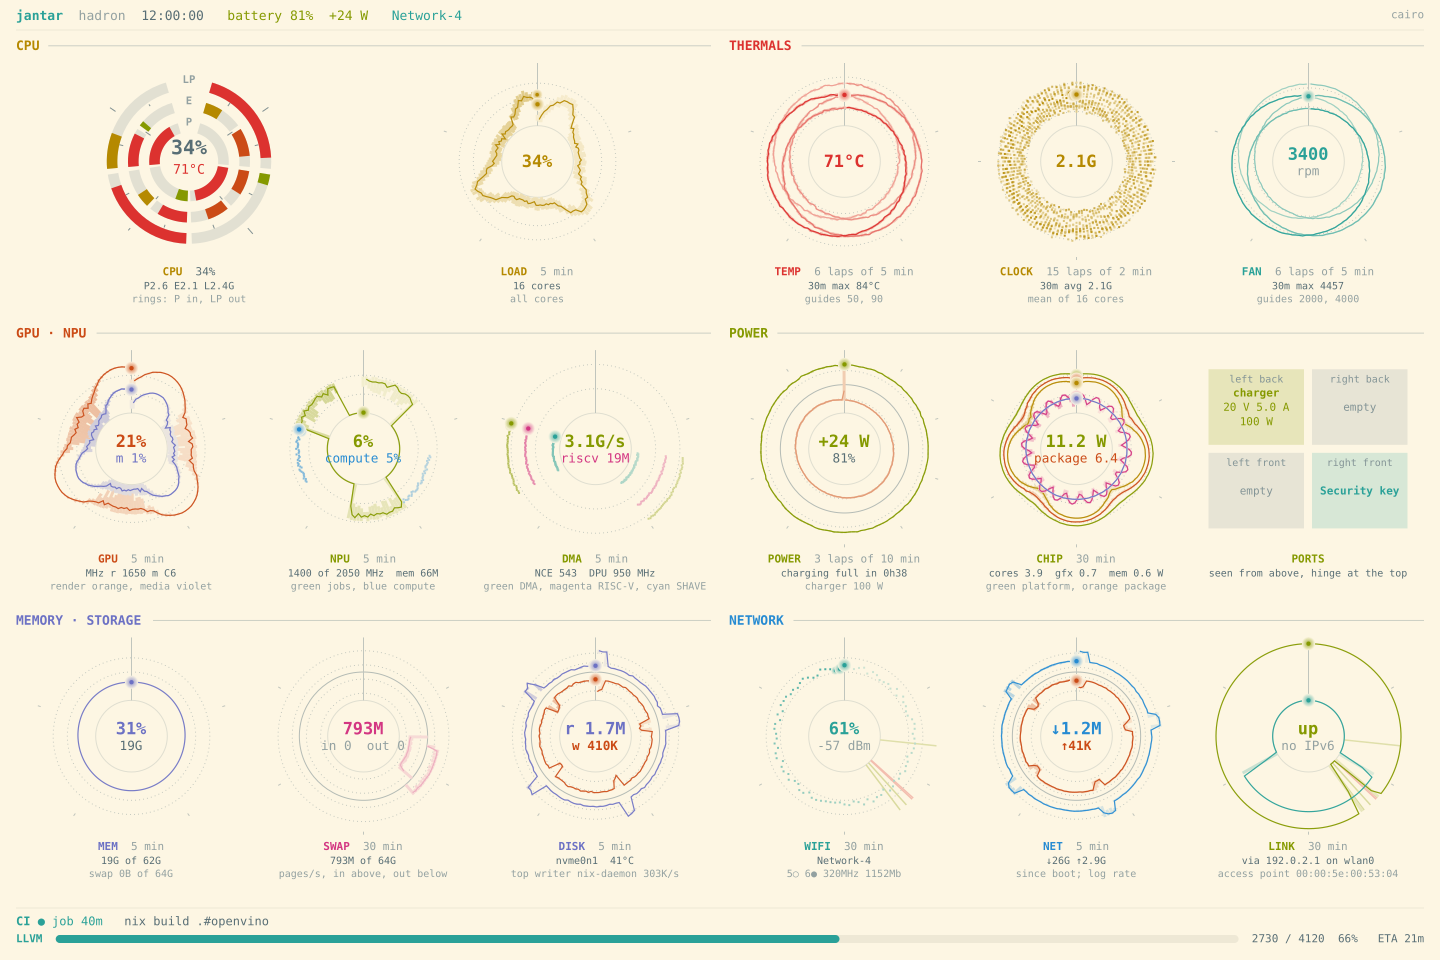
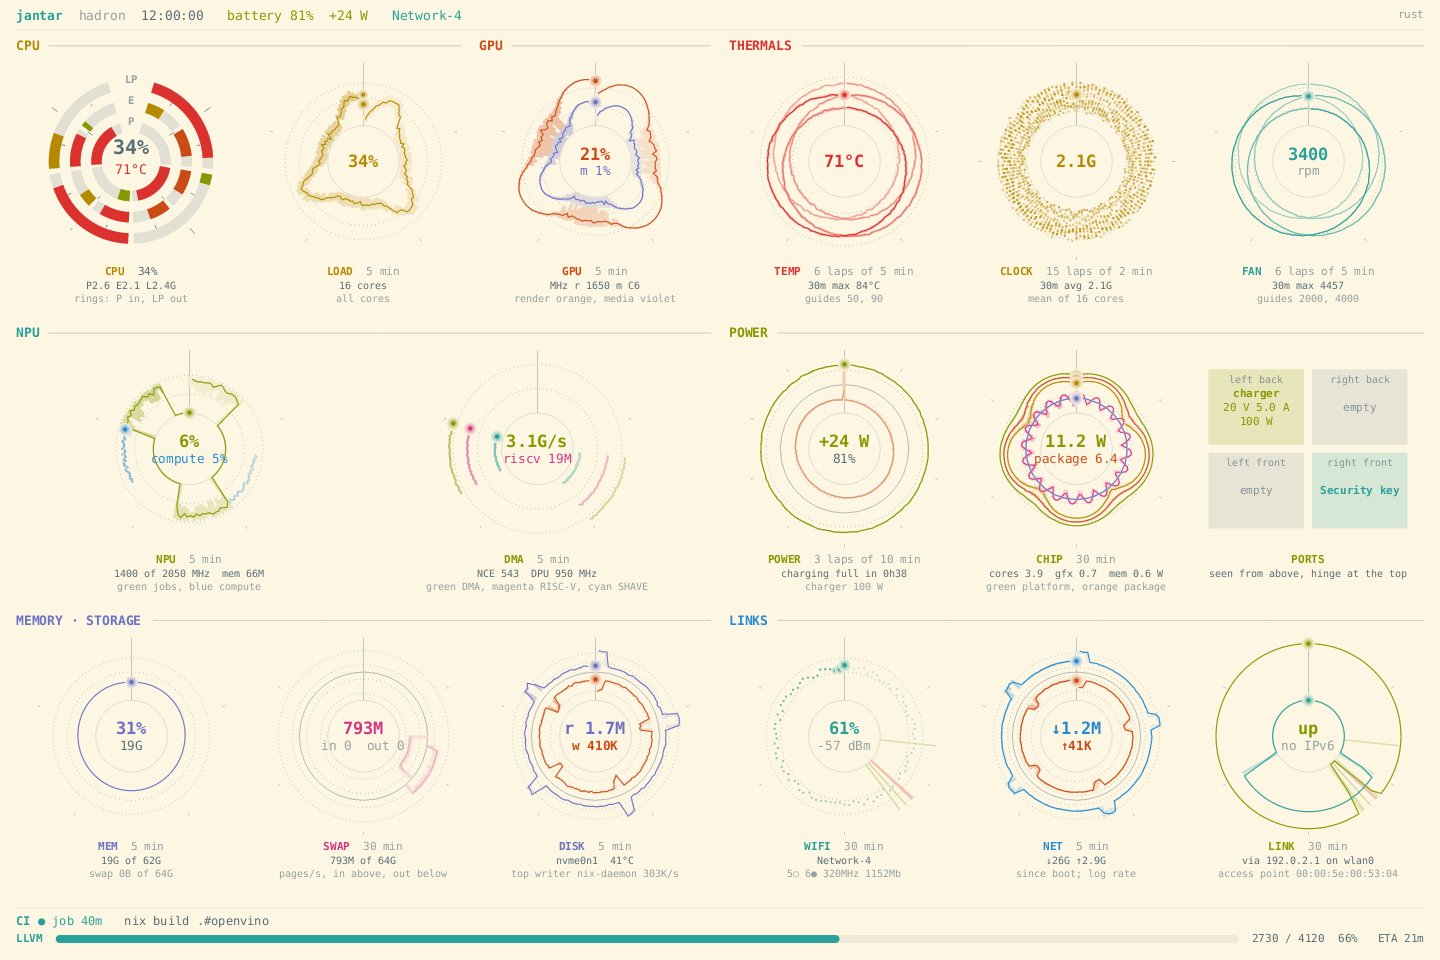
Separate GPU and NPU sections; the NPU zoom shows how a job runs
Sections:
- A row can hold more than one section, each with its own title, so
  the overview keeps its size: the GPU's dial sits beside CPU and LOAD,
  and NPU (NPU and DMA dials) has its own row, with room for a third.
- Network is now LINKS (wifi, traffic, the route out) so n can be the
  NPU. Keys in screen order: c g t n p m l.

NPU zoom: under the dials, a pipeline diagram. Host CPU -> queue and
doorbell -> RISC-V control core, which hands task lists to DMA, the DPU
tiles and the SHAVE cores; they work out of CMX and release each other
through hardware barriers. Each box glows with jantar's live counter
for it, in the dial colours (DPU and SHAVE share "compute"). Engine
names come from the NPU 50xx firmware.

README screenshots regenerated from the demo snapshot.

diff --git a/README.md b/README.md
@@ -19,11 +19,11 @@ slow ones as dots. Radial lines mark Wi-Fi roams, link drops and restarts.
 
 | key | overview | zoomed in |
 | --- | --- | --- |
-| `c` `t` `g` `p` `m` `n` | zoom in on a section, in screen order | switch section |
+| `c` `g` `t` `n` `p` `m` `l` | zoom in on a section, in screen order (`n` the NPU, `l` links: wifi, traffic, route) | switch section |
 | `1` `2` `3` | live, last day, last 30 days | last 1, 5, 30 minutes |
 | `Esc` | | back to the overview |
 
-![the GPU · NPU section, zoomed in](docs/screenshots/zoom.png)
+![the NPU section zoomed in: its dials, and how a job runs, lit by the live counters](docs/screenshots/zoom.png)
 
 It follows Solarized light or dark, and shows whatever sensors a machine has.
 
